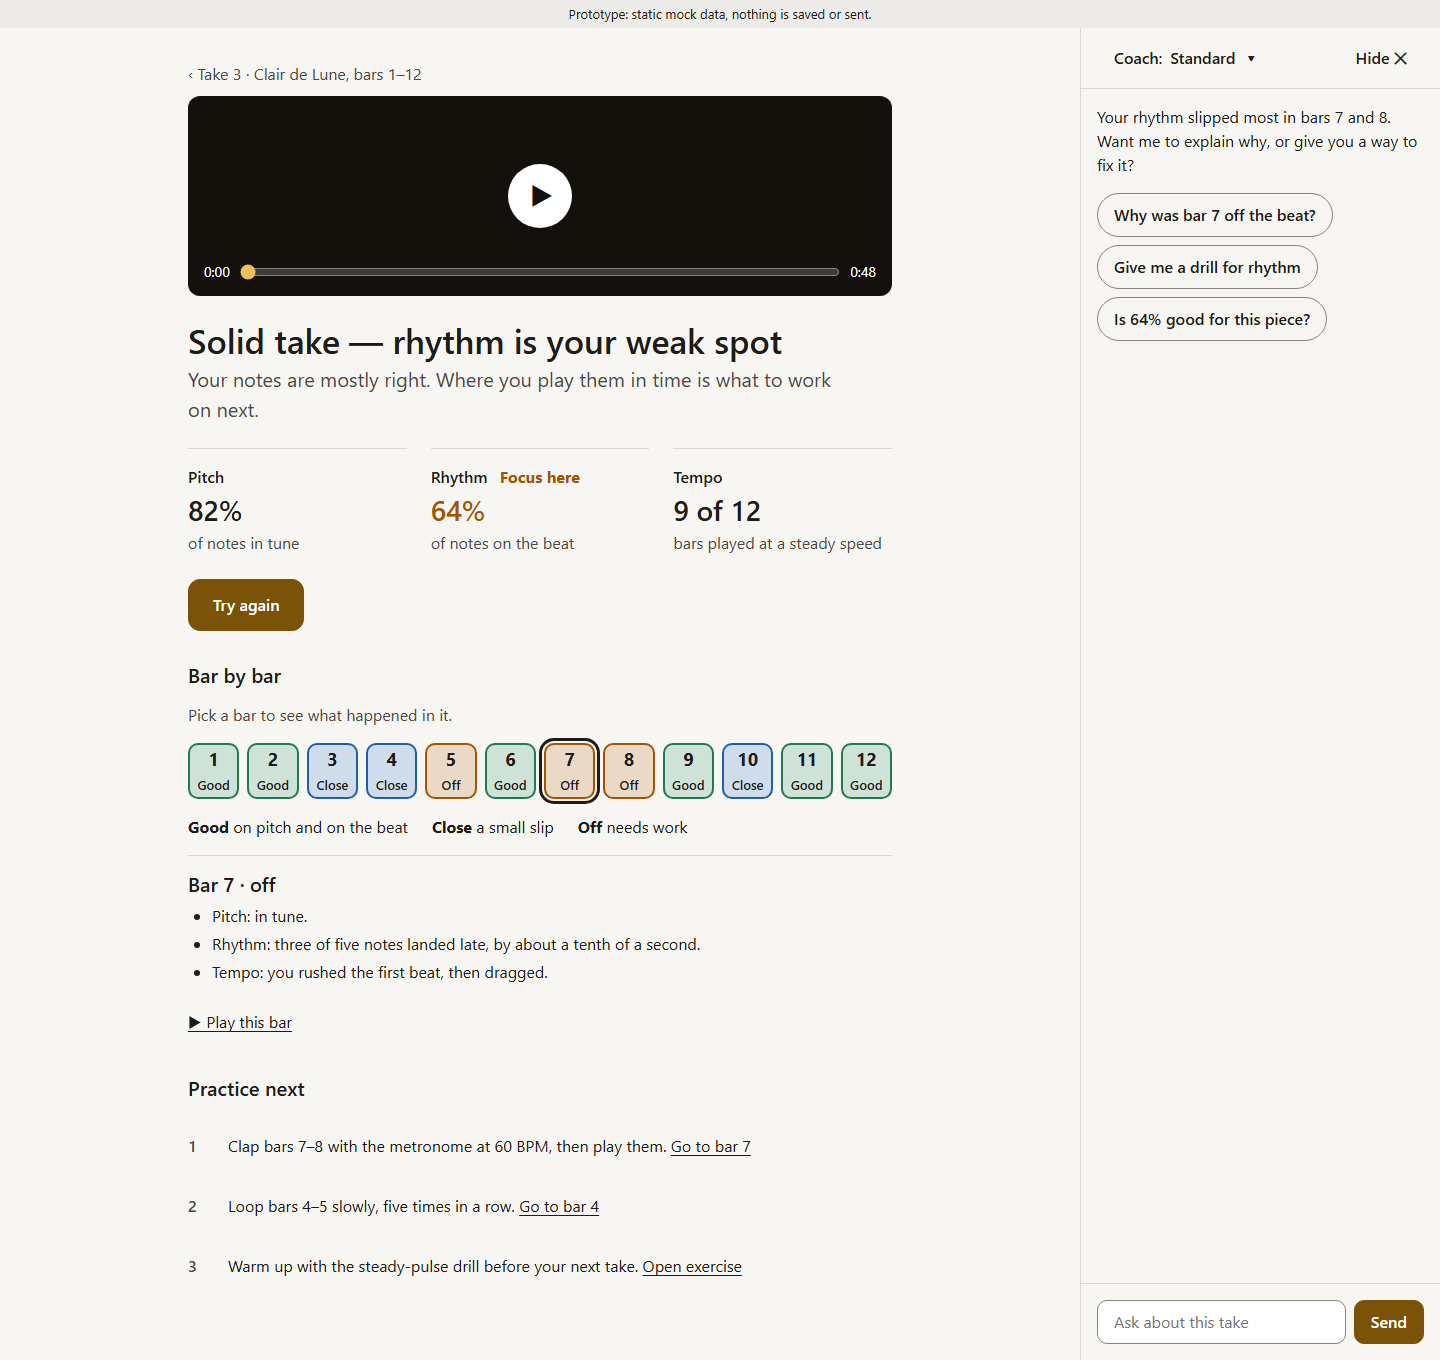
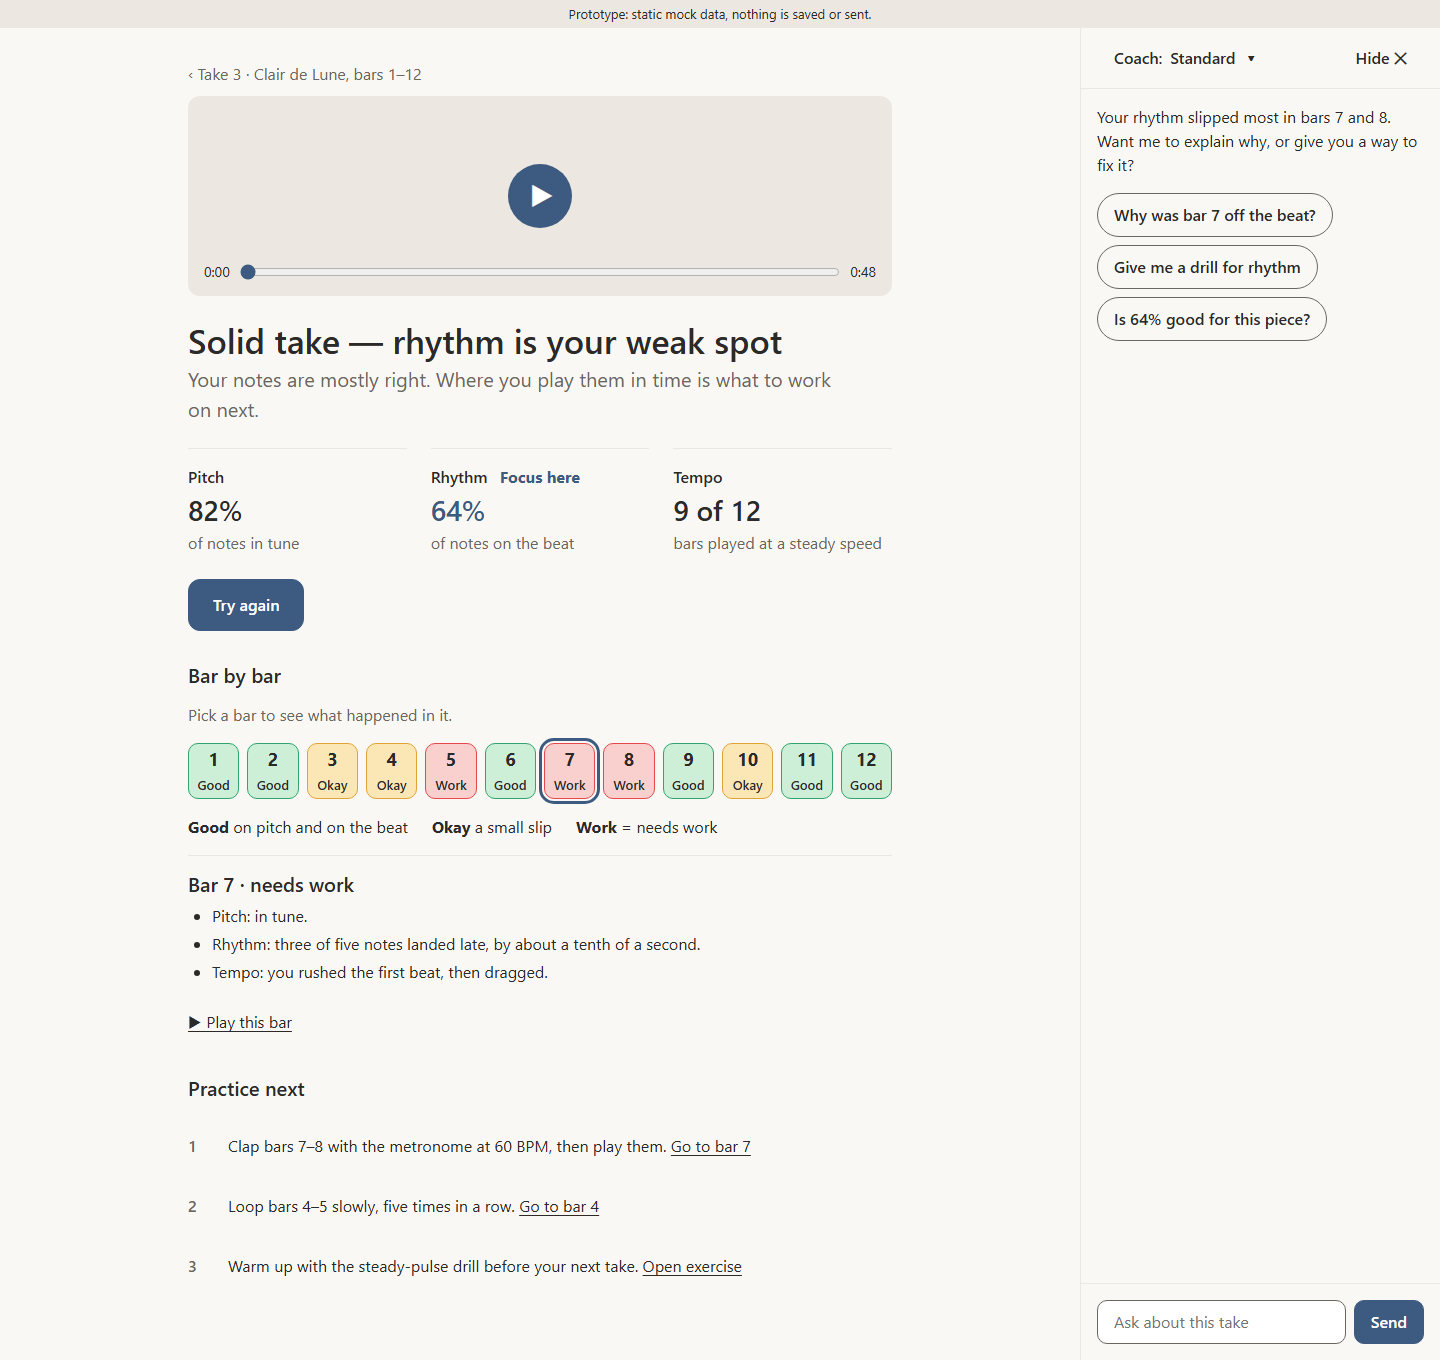
Prototype v2: apply Paper & Sky, Warm Linen and Mist Iris palettes, status colours with words, soft player; add contrast.mjs

diff --git a/frontend/dev/prototype/results-v2.html b/frontend/dev/prototype/results-v2.html
@@ -10,42 +10,45 @@
   <link rel="stylesheet" href="../../css/components.css">
   <style>
     /* ---- Palette: every colour on this page comes from the --c-* variables below. ----
-       Palettes (?palette=a|b|c, set on html[data-palette]) override only these variables. a is the default.
-       The :root block after it maps the design system's own tokens (app.css, components.css) onto them. */
-    :root, html[data-palette="a"] {
-      --c-bg: #f7f6f2;              /* page */
-      --c-surface: #ffffff;         /* inputs, menu, sheet items */
-      --c-surface-2: #ecebe7;       /* hover, note strip */
-      --c-ink: #1f1c18;             /* primary text */
-      --c-ink-soft: #4a4844;        /* secondary text */
-      --c-line: #d9d8d4;            /* hairlines */
-      --c-line-strong: #8a8378;     /* control edges, unselected box edge */
-      --c-accent: #7a5208;          /* primary button, focus ring */
-      --c-accent-ink: #ffffff;      /* text on the primary button */
-      --c-accent-hover: #664506;
-      --c-focus-text: #a65300;      /* "Focus here" and the weakest score */
-      --c-good-border: #1f7a4d;  --c-good-fill: #cee2d8;
-      --c-close-border: #1f5fa8; --c-close-fill: #cedcec;
-      --c-off-border: #a65300;   --c-off-fill: #ebd9c7;
-      --c-bar-ink: #1f1c18;         /* number and word inside a bar box */
-      --c-bar-selected: #1f1c18;    /* outline of the selected bar */
-      --c-media-bg: #14110d;        /* player poster */
-      --c-on-media: #ffffff;        /* player text */
-      --c-play-bg: #ffffff;  --c-play-ink: #14110d;
-      --c-scrubber: #f0c15a;
-      --c-scrim: rgb(0 0 0 / 0.35); /* dim behind the bottom sheet */
-      --c-shadow: 31 28 24;         /* r g b of the sheet and menu shadow */
+       Palettes (?palette=a|b|c, set on html[data-palette]) override only the per-palette variables; a is the default.
+       The :root block after them maps the design system's own tokens (app.css, components.css) onto the --c-* ones. */
+    :root, html[data-palette="a"] { /* a: Paper & Sky */
+      --c-bg: #f5f5f7; --c-surface: #ffffff; --c-ink: #1d1d1f; --c-ink-soft: #6e6e73; --c-line: #e5e5ea;
+      --c-accent: #0066cc; --c-accent-ink: #ffffff;
+      --c-scrim: rgb(29 29 31 / 0.3); --c-shadow: 29 29 31;
     }
-    html[data-palette="b"] { /* placeholder: same as a */ }
-    html[data-palette="c"] { /* placeholder: same as a */ }
+    html[data-palette="b"] { /* b: Warm Linen */
+      --c-bg: #faf8f5; --c-surface: #ffffff; --c-ink: #2b2a28; --c-ink-soft: #6b6760; --c-line: #ece7e0;
+      --c-accent: #3d5a80; --c-accent-ink: #ffffff;
+      --c-scrim: rgb(43 42 40 / 0.3); --c-shadow: 43 42 40;
+    }
+    html[data-palette="c"] { /* c: Mist Iris */
+      --c-bg: #f4f6fb; --c-surface: #ffffff; --c-ink: #1f2433; --c-ink-soft: #5b6478; --c-line: #e3e7f0;
+      --c-accent: #5b5bd6; --c-accent-ink: #ffffff;
+      --c-scrim: rgb(31 36 51 / 0.3); --c-shadow: 31 36 51;
+    }
+    /* The same in every palette: the status colours (a soft fill with a stronger 1px border) and what is derived from the per-palette ones */
+    :root {
+      --c-good-fill: #cdefd8;  --c-good-border: #30a46c;
+      --c-okay-fill: #fbe7b5;  --c-okay-border: #e2a336;
+      --c-work-fill: #f9d0ce;  --c-work-border: #e5484d;
+      --c-line-strong: var(--c-ink-soft);   /* the edge of a control (chip, input): needs 3:1 */
+      --c-focus-text: var(--c-accent);      /* "Focus here" and the weakest score */
+      --c-bar-ink: var(--c-ink);            /* the number and word inside a bar box */
+      --c-bar-selected: var(--c-accent);    /* the outline of the selected bar */
+      --c-media-bg: var(--c-line);          /* the player poster: a soft tone, not black */
+      --c-on-media: var(--c-ink);
+      --c-play-bg: var(--c-accent);  --c-play-ink: var(--c-accent-ink);
+      --c-scrubber: var(--c-accent);
+    }
 
     :root {
       color-scheme: light;
-      --bg: var(--c-bg); --surface: var(--c-surface); --surface-2: var(--c-surface-2);
+      --bg: var(--c-bg); --surface: var(--c-surface); --surface-2: var(--c-line);
       --ink: var(--c-ink); --muted: var(--c-ink-soft); --soft-ink: var(--c-ink-soft);
       --line: var(--c-line); --line-strong: var(--c-line-strong);
-      --accent: var(--c-accent); --primary: var(--c-accent); --primary-ink: var(--c-accent-ink); --primary-hover: var(--c-accent-hover);
-      --ok: var(--c-good-border); --flat: var(--c-close-border); --sharp: var(--c-off-border); --error: var(--c-off-border);
+      --accent: var(--c-accent); --primary: var(--c-accent); --primary-ink: var(--c-accent-ink); --primary-hover: var(--c-accent);
+      --ok: var(--c-good-border); --flat: var(--c-okay-border); --sharp: var(--c-work-border); --error: var(--c-work-border);
       --media-bg: var(--c-media-bg); --on-media: var(--c-on-media); --on-media-accent: var(--c-scrubber);
       --shadow-color: var(--c-shadow);
     }
@@ -80,12 +83,12 @@
     .bars-head h2 { margin-top: 0; }
     .bars-head p { margin: 0; color: var(--soft-ink); }
     .bar-row { display: grid; grid-template-columns: repeat(6, 1fr); gap: var(--sp-2); margin: var(--sp-3) 0 0; padding: 0; list-style: none; }
-    .bar-box { display: flex; flex-direction: column; align-items: center; justify-content: center; width: 100%; min-height: 56px; padding: 0; border: 2px solid var(--line-strong); border-radius: var(--radius); background: var(--surface); color: var(--c-bar-ink); font: inherit; font-weight: 600; line-height: 1.15; cursor: pointer; }
+    .bar-box { display: flex; flex-direction: column; align-items: center; justify-content: center; width: 100%; min-height: 56px; padding: 0; border: 1px solid var(--line-strong); border-radius: var(--radius); background: var(--surface); color: var(--c-bar-ink); font: inherit; font-weight: 600; line-height: 1.15; cursor: pointer; }
     .bar-box .num { font-size: 18px; font-weight: 700; }
     .bar-box .word { font-size: var(--fs-caption); font-weight: 600; }
     .bar-box[data-level="good"] { border-color: var(--c-good-border); background: var(--c-good-fill); }
-    .bar-box[data-level="ok"]   { border-color: var(--c-close-border); background: var(--c-close-fill); }
-    .bar-box[data-level="off"]  { border-color: var(--c-off-border); background: var(--c-off-fill); }
+    .bar-box[data-level="okay"]   { border-color: var(--c-okay-border); background: var(--c-okay-fill); }
+    .bar-box[data-level="work"]  { border-color: var(--c-work-border); background: var(--c-work-fill); }
     .bar-box[aria-pressed="true"] { outline: 3px solid var(--c-bar-selected); outline-offset: 2px; }
     .legend { display: flex; flex-wrap: wrap; gap: var(--sp-1) var(--sp-4); margin: var(--sp-3) 0 0; color: var(--ink); font-size: var(--fs-body); }
     .detail { margin-top: var(--sp-3); padding-top: var(--sp-3); border-top: 1px solid var(--line); }
@@ -182,7 +185,7 @@
             <p>Pick a bar to see what happened in it.</p>
           </div>
           <ul class="bar-row" id="bar-row" role="list"></ul>
-          <p class="legend"><span><b>Good</b> on pitch and on the beat</span><span><b>Close</b> a small slip</span><span><b>Off</b> needs work</span></p>
+          <p class="legend"><span><b>Good</b> on pitch and on the beat</span><span><b>Okay</b> a small slip</span><span><b>Work</b> = needs work</span></p>
           <div class="detail" id="detail" aria-live="polite"></div>
         </section>
 
@@ -236,19 +239,19 @@
     const BARS = [
       { level: 'good', notes: ['Pitch: all notes in tune.', 'Rhythm: on the beat.', 'Tempo: steady.'] },
       { level: 'good', notes: ['Pitch: all notes in tune.', 'Rhythm: on the beat.', 'Tempo: steady.'] },
-      { level: 'ok',   notes: ['Pitch: one note was a little flat (about 20 cents).', 'Rhythm: on the beat.', 'Tempo: steady.'] },
-      { level: 'ok',   notes: ['Pitch: in tune.', 'Rhythm: the second note came in early.', 'Tempo: steady.'] },
-      { level: 'off',  notes: ['Pitch: the last note was sharp, so it sounded off.', 'Rhythm: the third beat came in late.', 'Tempo: you slowed down towards the end of the bar.'] },
+      { level: 'okay',   notes: ['Pitch: one note was a little flat (about 20 cents).', 'Rhythm: on the beat.', 'Tempo: steady.'] },
+      { level: 'okay',   notes: ['Pitch: in tune.', 'Rhythm: the second note came in early.', 'Tempo: steady.'] },
+      { level: 'work',  notes: ['Pitch: the last note was sharp, so it sounded off.', 'Rhythm: the third beat came in late.', 'Tempo: you slowed down towards the end of the bar.'] },
       { level: 'good', notes: ['Pitch: all notes in tune.', 'Rhythm: on the beat.', 'Tempo: steady.'] },
-      { level: 'off',  notes: ['Pitch: in tune.', 'Rhythm: three of five notes landed late, by about a tenth of a second.', 'Tempo: you rushed the first beat, then dragged.'] },
-      { level: 'off',  notes: ['Pitch: one note was flat.', 'Rhythm: two notes landed late.', 'Tempo: steady.'] },
+      { level: 'work',  notes: ['Pitch: in tune.', 'Rhythm: three of five notes landed late, by about a tenth of a second.', 'Tempo: you rushed the first beat, then dragged.'] },
+      { level: 'work',  notes: ['Pitch: one note was flat.', 'Rhythm: two notes landed late.', 'Tempo: steady.'] },
       { level: 'good', notes: ['Pitch: all notes in tune.', 'Rhythm: on the beat.', 'Tempo: steady.'] },
-      { level: 'ok',   notes: ['Pitch: in tune.', 'Rhythm: the last note was a touch late.', 'Tempo: steady.'] },
+      { level: 'okay',   notes: ['Pitch: in tune.', 'Rhythm: the last note was a touch late.', 'Tempo: steady.'] },
       { level: 'good', notes: ['Pitch: all notes in tune.', 'Rhythm: on the beat.', 'Tempo: steady.'] },
       { level: 'good', notes: ['Pitch: all notes in tune.', 'Rhythm: on the beat.', 'Tempo: steady.'] },
     ];
-    const LABEL = { good: 'Good', ok: 'Close', off: 'Off' };
-    const WORD = { good: 'good', ok: 'close', off: 'off' };
+    const LABEL = { good: 'Good', okay: 'Okay', work: 'Work' }; // short, to fit the box; the heading and aria-label spell out "needs work"
+    const WORD = { good: 'good', okay: 'okay', work: 'needs work' };
 
     const row = document.getElementById('bar-row');
     const detail = document.getElementById('detail');
